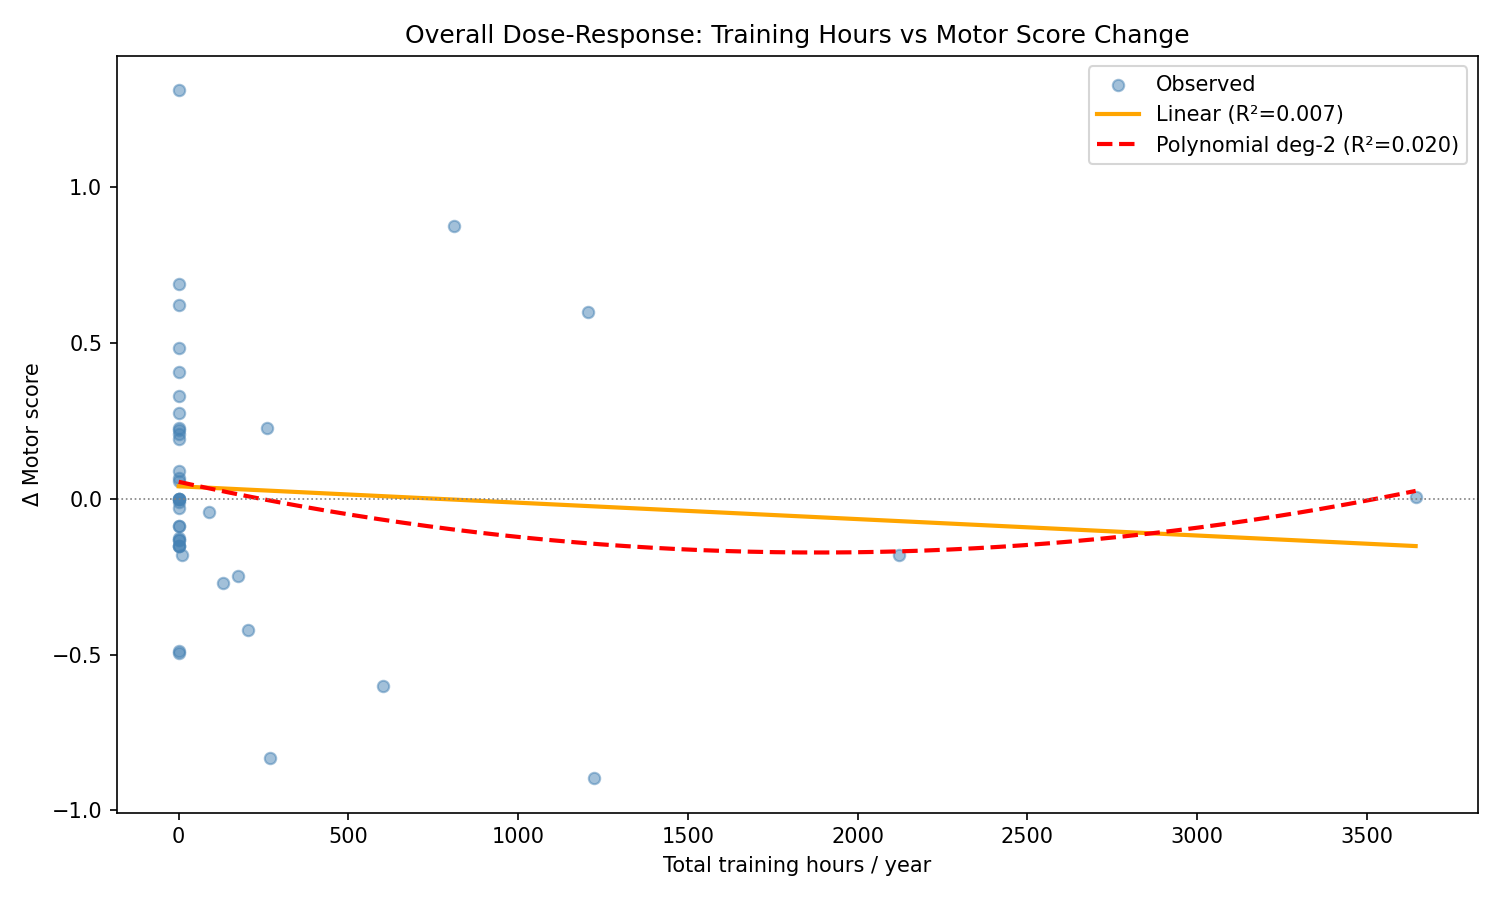
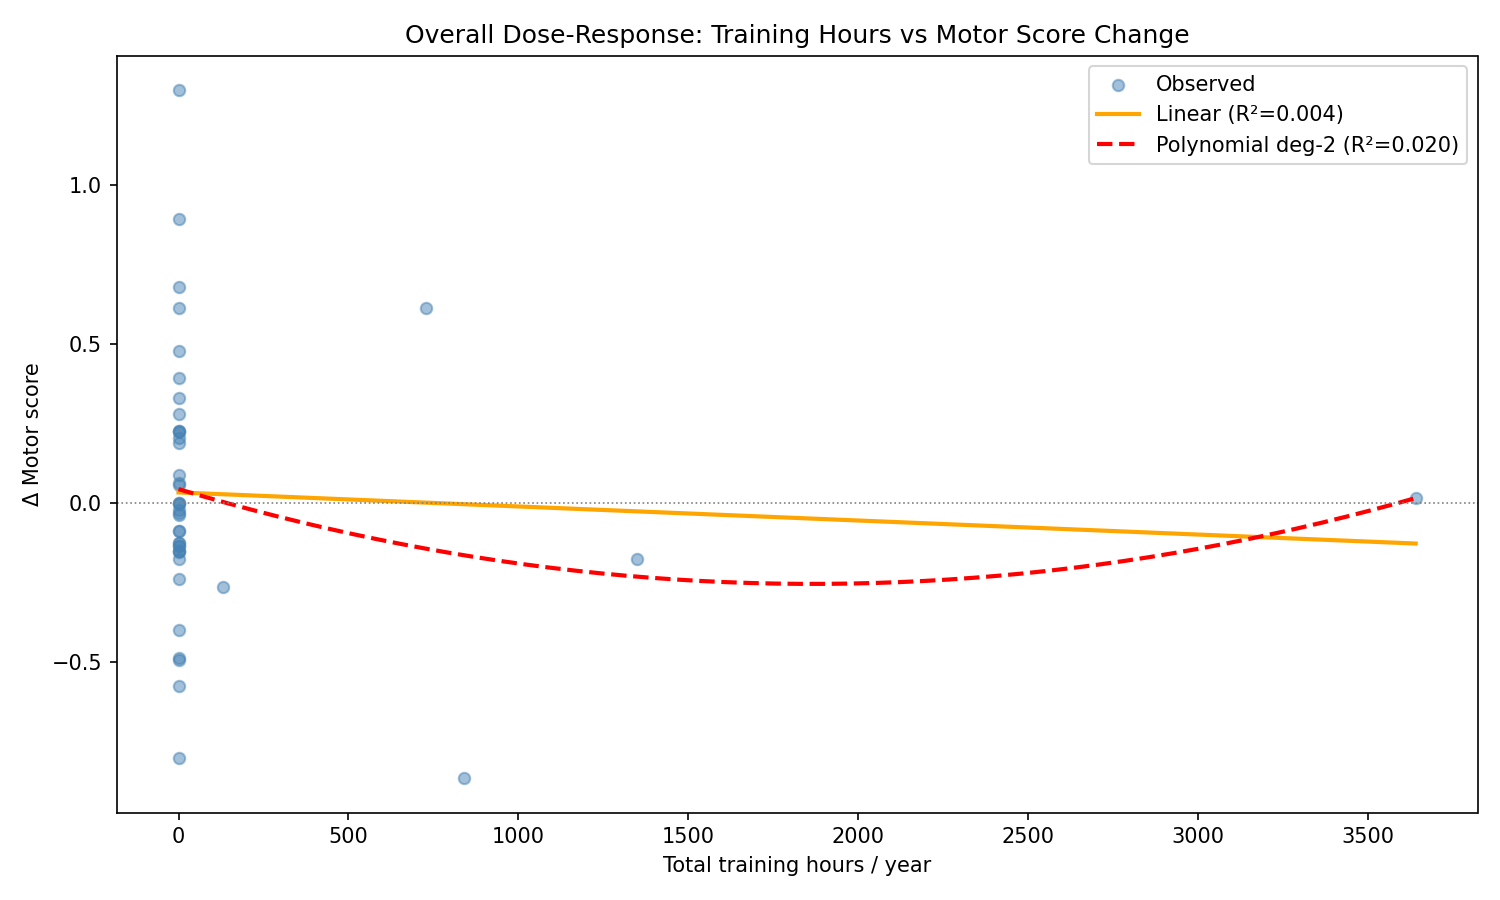
fixed age 1 and 2 in database

diff --git a/src/second_migration.py b/src/second_migration.py
@@ -1,0 +1,231 @@
+import os
+import psycopg2
+from psycopg2.extras import RealDictCursor, Json
+from dotenv import load_dotenv
+
+load_dotenv()
+
+DB_DSN = os.getenv("DB_URL")
+
+def get_connection():
+    return psycopg2.connect(DB_DSN)
+
+# ─── Excluded introductory_ids ────────────────────────────────────────────────
+# These were created after the format change and are already in new format
+
+EXCLUDED_INTRODUCTORY_IDS = {
+    "83de457e-7e32-4fb9-a8ed-d52a5f4fd80c",
+    "19d2295a-bf58-499e-a91c-d88a2cf52e93",
+    "f9231c8d-2ade-4c0e-a878-a9524ccc3d65",
+    "0a584ba1-cdf4-4251-9168-5f8ccc0240e3"
+}
+
+# ─── Safe value helpers ───────────────────────────────────────────────────────
+
+def safe_float(val) -> float:
+    try:
+        return float(val) if val != "" and val is not None else 0.0
+    except (TypeError, ValueError):
+        return 0.0
+
+
+def is_empty_value(val) -> bool:
+    if val is None:
+        return True
+    if val == "" or val == [] or val == {}:
+        return True
+    return False
+
+
+# ─── Table config ─────────────────────────────────────────────────────────────
+# Only the JSONB fields that contain days/hours/weeks structs
+
+TABLE_CONFIG = {
+    "home_training": {
+        "jsonb_fields_with_details": ["training_methods_therapies", "other_training_methods_therapies"],
+        "jsonb_fields_flat": [],
+    },
+    "intensive_therapies": {
+        "jsonb_fields_with_details": [],
+        "jsonb_fields_flat": ["neurohabilitation_centers", "methods_applied_during_intense_training"],
+    }
+}
+
+# ─── Format conversion ────────────────────────────────────────────────────────
+
+def is_already_new_format(jdata: dict, is_flat: bool) -> bool:
+    """Check if a JSONB field is already in new format (days = "")."""
+    details = jdata if is_flat else jdata.get("details", {})
+    if is_empty_value(details):
+        return True  # empty — nothing to convert
+    for vals in details.values():
+        if isinstance(vals, dict):
+            if vals.get("days") == "":
+                return True  # new format
+            if isinstance(vals.get("days"), (int, float)):
+                return False  # old format
+    return True  # no recognizable values — leave as-is
+
+
+def convert_details(details: dict) -> dict:
+    """Convert a details dict from old format to new format."""
+    new_details = {}
+    for method, vals in details.items():
+        if not isinstance(vals, dict):
+            new_details[method] = vals
+            continue
+
+        days_raw  = vals.get("days")
+        hours_num = safe_float(vals.get("hours"))
+        weeks_num = safe_float(vals.get("weeks"))
+
+        if days_raw == "" or days_raw is None:
+            # Already new format — keep as-is
+            new_details[method] = vals
+        else:
+            # Old format: days/week × minutes/day ÷ 60 = hours/week
+            days_num = safe_float(days_raw)
+            hpw = round((days_num * hours_num) / 60, 2)
+            new_details[method] = {"days": "", "hours": hpw, "weeks": weeks_num}
+
+    return new_details
+
+
+def convert_row(row: dict, config: dict) -> dict:
+    """
+    Returns a dict of {field: new_jsonb_value} for all relevant fields.
+    Each method is handled individually — already-new-format methods kept as-is,
+    old-format methods converted.
+    """
+    result = {}
+
+    # ── Fields with details-wrapper ──
+    for field in config["jsonb_fields_with_details"]:
+        jdata = row.get(field)
+        if is_empty_value(jdata) or "details" not in jdata:
+            continue
+        if is_empty_value(jdata.get("details")):
+            continue
+        new_details = convert_details(jdata["details"])
+        result[field] = {
+            "other": jdata.get("other", ""),
+            "details": new_details,
+            "methods": list(new_details.keys())
+        }
+
+    # ── Flat fields ──
+    for field in config["jsonb_fields_flat"]:
+        jdata = row.get(field)
+        if is_empty_value(jdata) or not isinstance(jdata, dict):
+            continue
+        result[field] = convert_details(jdata)
+
+    return result
+
+
+# ─── Safety check ─────────────────────────────────────────────────────────────
+
+def check_old_tables_exist(conn):
+    with conn.cursor() as cur:
+        for table in ["home_training_old", "intensive_therapies_old"]:
+            cur.execute(
+                "SELECT EXISTS (SELECT FROM information_schema.tables WHERE table_name = %s)",
+                (table,)
+            )
+            if not cur.fetchone()[0]:
+                raise Exception(
+                    f"\n❌ Säkerhetstabell '{table}' saknas!\n"
+                    f"   Kör SQL-stegen för att spara age 1+2 till _old-tabeller innan du kör detta skript:\n"
+                    f"   INSERT INTO {table} SELECT * FROM {table.replace('_old', '')} WHERE age IN (1, 2);"
+                )
+
+
+# ─── Core migration ───────────────────────────────────────────────────────────
+
+def convert_table(conn, table_name: str, dry_run: bool = True):
+    config = TABLE_CONFIG[table_name]
+
+    with conn.cursor(cursor_factory=RealDictCursor) as cur:
+        cur.execute(
+            f"SELECT * FROM {table_name} WHERE age IN (1, 2) ORDER BY age"
+        )
+        rows = cur.fetchall()
+
+        print(f"\n{'='*60}")
+        print(f"Table : {table_name} (age 1+2 format conversion)")
+        print(f"Rows found: {len(rows)}")
+        print(f"Mode  : {'DRY RUN – no changes written' if dry_run else '⚡ LIVE – writing to DB'}")
+        print("="*60)
+
+        stats = {"converted": 0, "excluded": 0}
+
+        for row in rows:
+            intro_id = str(row["introductory_id"])
+            row_id   = str(row["id"])
+
+            # Skip excluded ids
+            if intro_id in EXCLUDED_INTRODUCTORY_IDS:
+                print(f"\n  id={row_id} age={row['age']} intro={intro_id} — [SKIP] exkluderad")
+                stats["excluded"] += 1
+                continue
+
+            converted = convert_row(row, config)
+
+            if not converted:
+                print(f"\n  id={row_id} age={row['age']} intro={intro_id} — [SKIP] inga JSONB-fält att konvertera")
+                continue
+
+            if dry_run:
+                print(f"\n  id={row_id} age={row['age']} intro={intro_id}")
+                for field, new_val in converted.items():
+                    details = new_val.get("details", new_val)
+                    print(f"  [DRY] {field}:")
+                    for method, vals in details.items():
+                        if isinstance(vals, dict):
+                            print(f"    · {method}: {vals.get('hours')} hrs/week, {vals.get('weeks')} weeks/year")
+            else:
+                set_clauses = []
+                values      = []
+                for field, val in converted.items():
+                    set_clauses.append(f'"{field}" = %s')
+                    values.append(Json(val))
+                values.append(row_id)
+                cur.execute(
+                    f'UPDATE {table_name} SET {", ".join(set_clauses)} WHERE id = %s',
+                    values
+                )
+                stats["converted"] += 1
+
+        print(f"\n  Stats: {stats}")
+
+
+# ─── Entry point ──────────────────────────────────────────────────────────────
+
+def main():
+    conn = get_connection()
+    try:
+        check_old_tables_exist(conn)
+
+        for table in ["home_training", "intensive_therapies"]:
+            convert_table(conn, table, dry_run=True)
+
+        print("\n" + "="*60)
+        confirm = input("Apply all changes to the database? (yes/no): ").strip().lower()
+
+        if confirm == "yes":
+            for table in ["home_training", "intensive_therapies"]:
+                convert_table(conn, table, dry_run=False)
+            conn.commit()
+            print("\n✅ All changes committed successfully.")
+        else:
+            print("\n❌ Aborted — no changes written.")
+
+    except Exception as e:
+        conn.rollback()
+        print(f"\n❌ Error — rolled back. Details: {e}")
+        raise
+    finally:
+        conn.close()
+
+if __name__ == "__main__":
+    main()

diff --git a/src/preprocessing/master_preprocessing.py b/src/preprocessing/master_preprocessing.py
@@ -73,6 +73,7 @@ def _build_device_binary(home_training_df: pl.DataFrame) -> pl.DataFrame:
 
         details = {}
         if isinstance(devices_raw, dict):
+
             device_names = devices_raw.get("devices", []) or []
             for device_name in device_names:
                 if device_name and device_name != "None":
